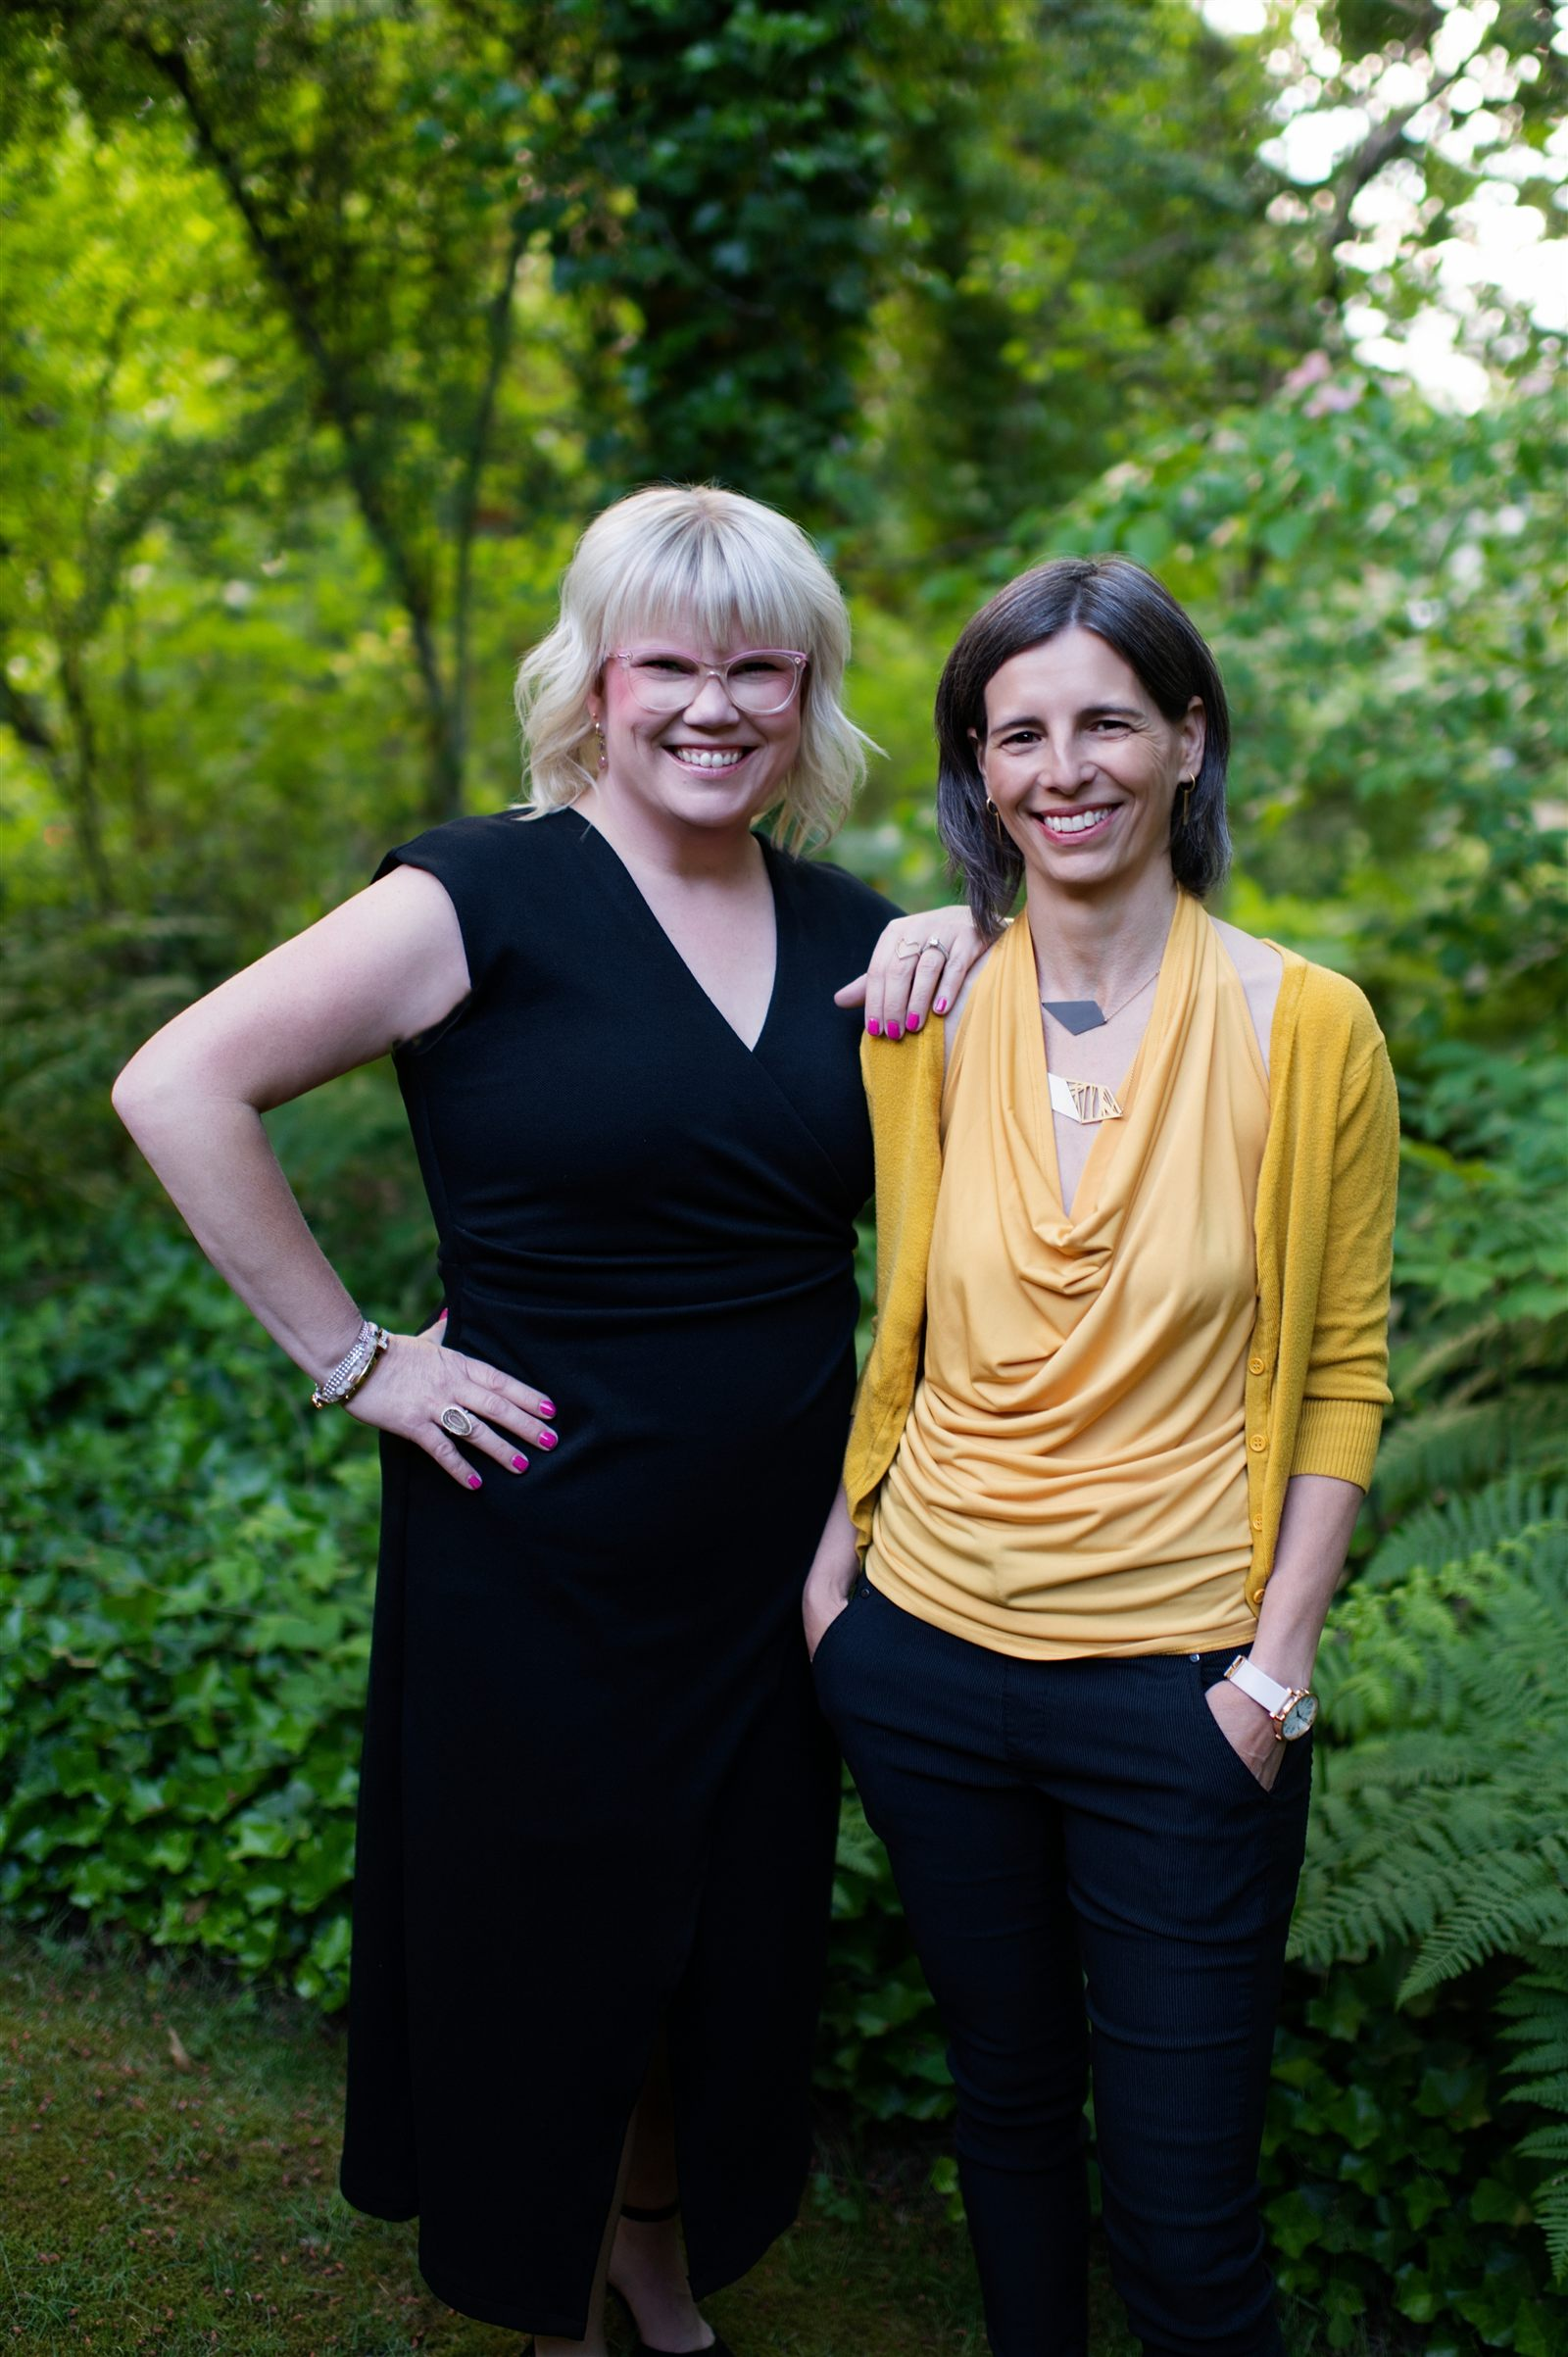
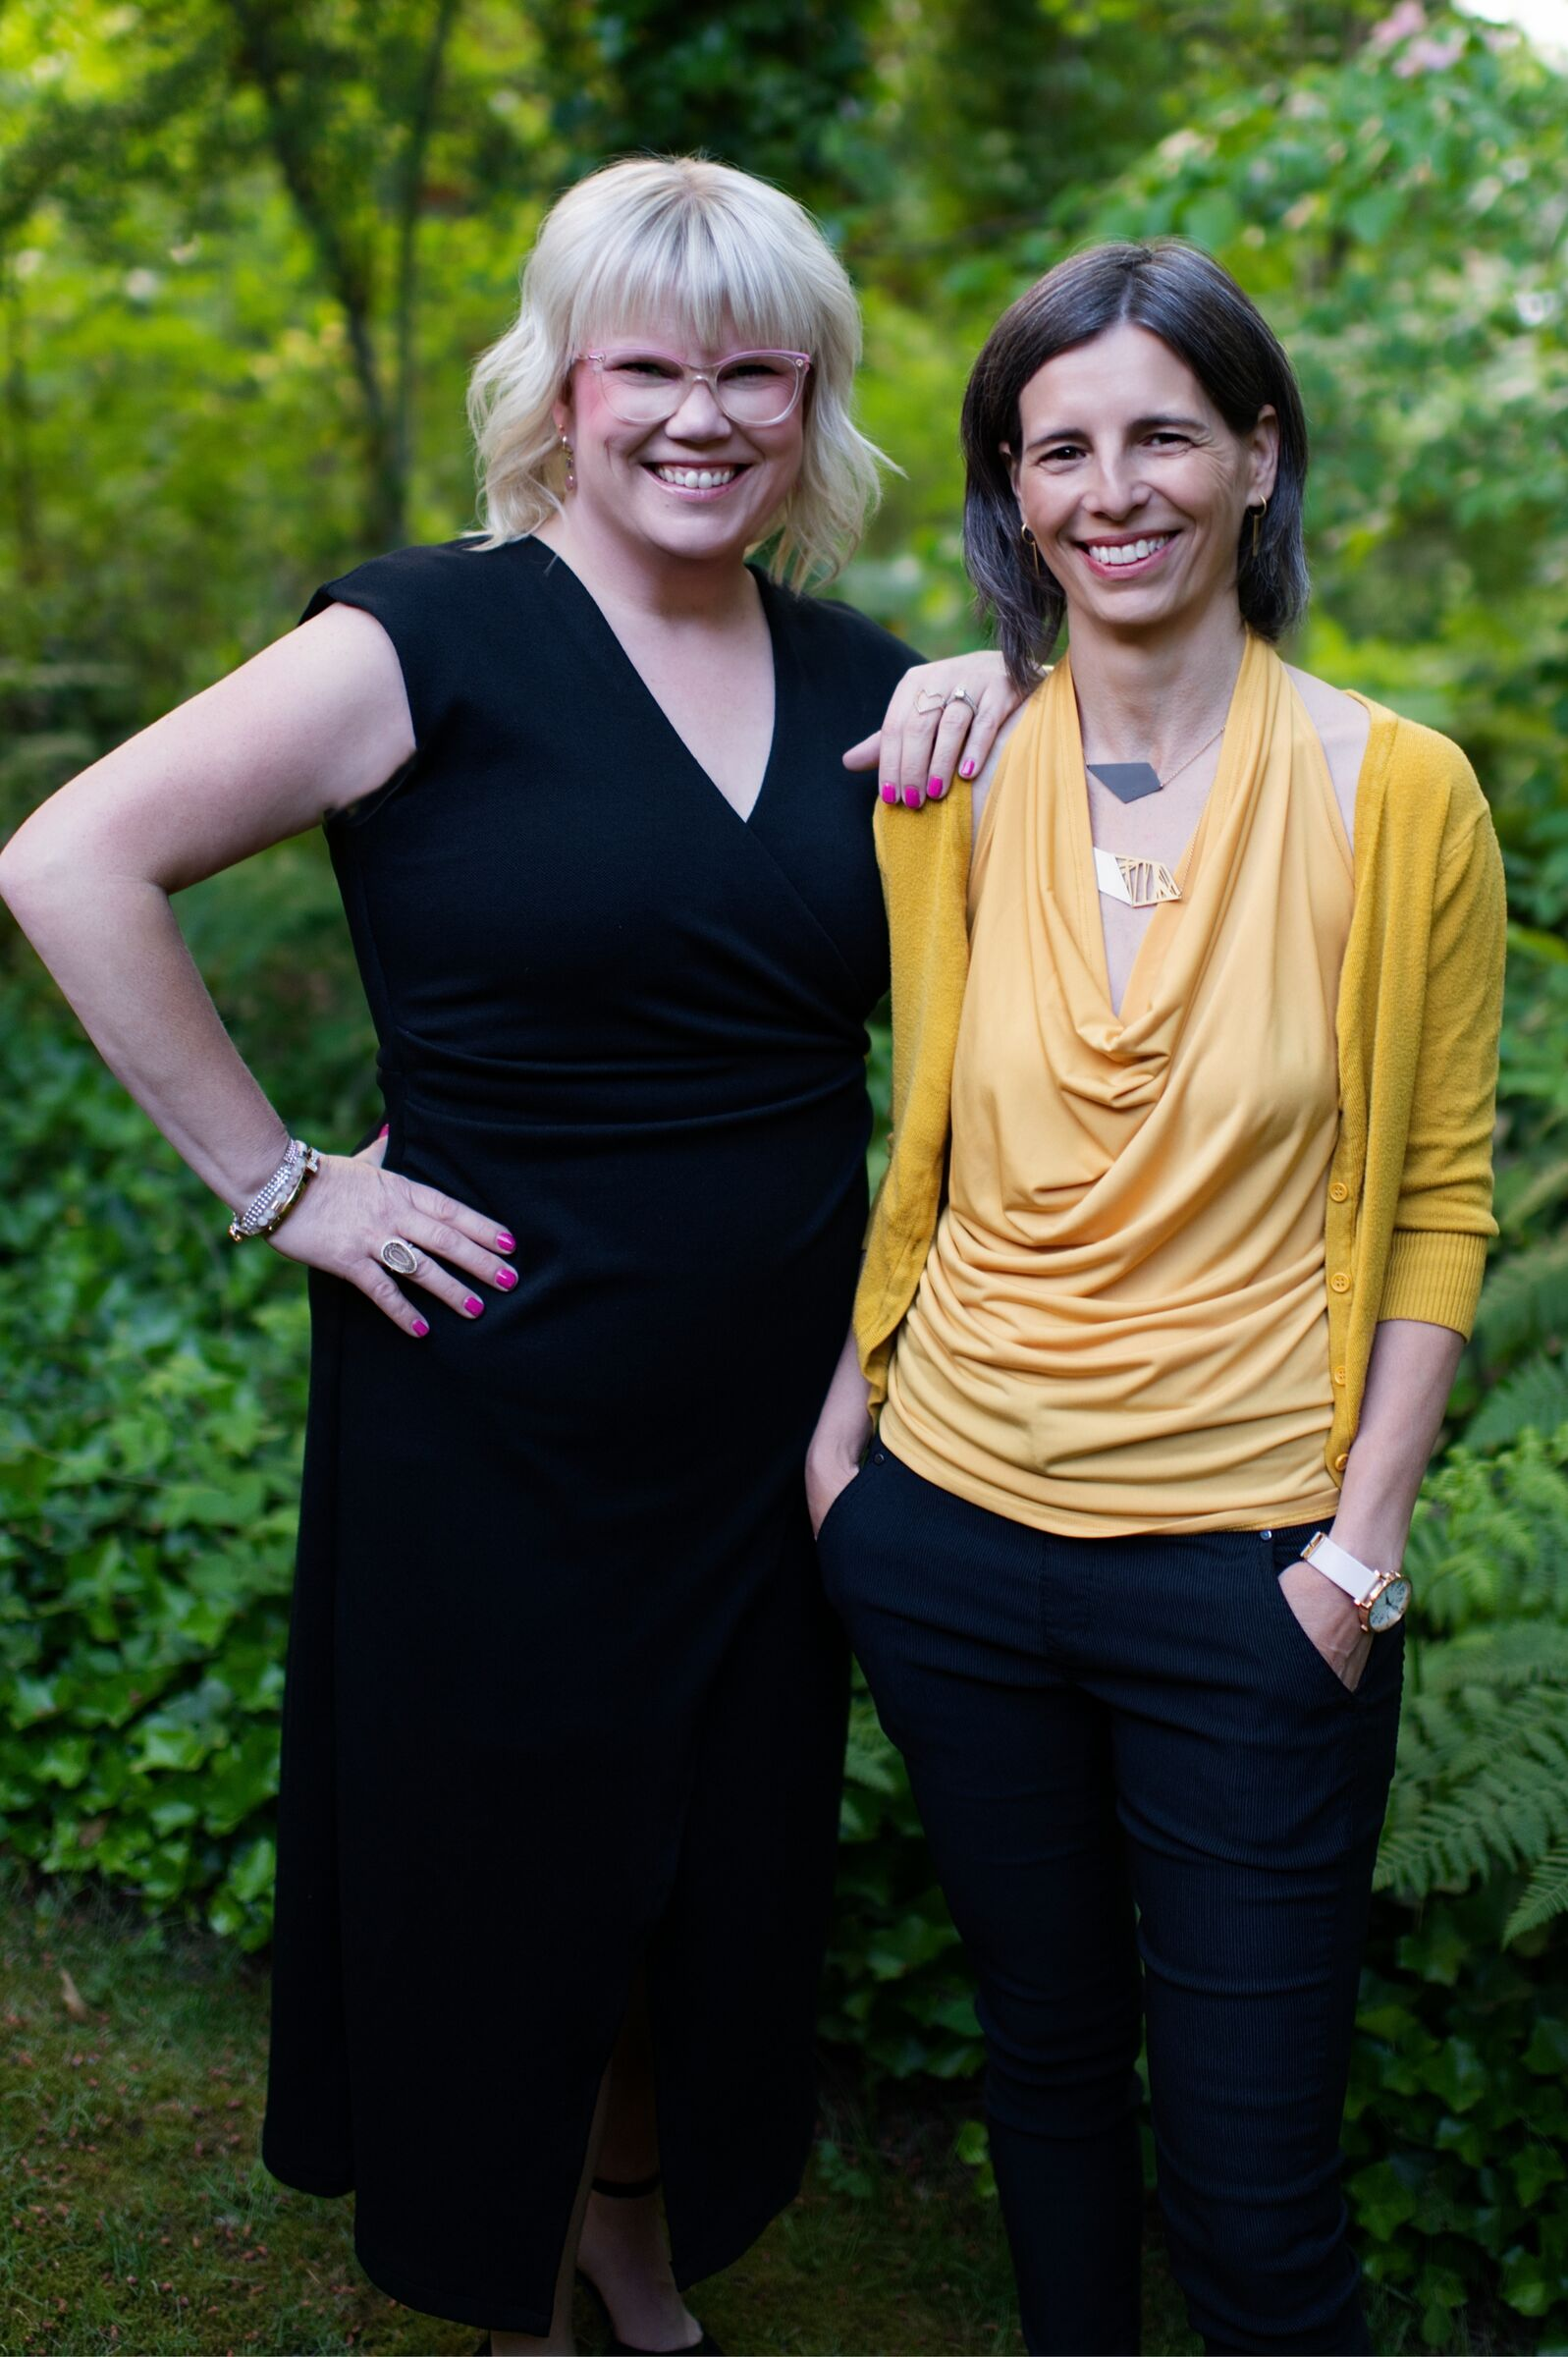
Redesign team section: larger founder photos with text wrapping, updated team image
- Increase founder headshot size from 72px to 220px
- Move images to float within first paragraph of each bio
- Subsequent paragraphs span full width below image
- Update Nina's first section text to split intro paragraphs for better layout
- Change pronouns: Miri's work, Nina is passionate (instead of Her/She)
- Replace team photo with new nina-miri-cropped image and optimize file size
- Update Nina's headshot with optimized version

diff --git a/src/styles/global.css b/src/styles/global.css
@@ -681,20 +681,46 @@ footer {
 }
 
 .bio-header {
-  display: flex;
-  justify-content: space-between;
-  align-items: flex-start;
-  gap: var(--space-4);
   margin-bottom: var(--space-4);
 }
 
-.bio-headshot {
-  width: 72px;
-  height: 72px;
+.bio-section:first-child {
+  display: grid;
+  grid-template-columns: 1fr 220px;
+  gap: var(--space-4);
+  align-items: flex-start;
+}
+
+.bio-section:first-child .bio-headshot {
+  width: 220px;
+  height: 220px;
   border-radius: var(--radius-lg);
-  object-fit: cover;
-  object-position: center top;
-  flex-shrink: 0;
+  object-fit: contain;
+  object-position: center;
+  grid-column: 2;
+  grid-row: 1;
+}
+
+.bio-section:first-child > p:first-of-type {
+  grid-column: 1;
+  grid-row: 1;
+  margin: 0;
+  min-height: 220px;
+  display: flex;
+  align-items: flex-start;
+}
+
+.bio-section:first-child > p:not(:first-of-type) {
+  grid-column: 1 / -1;
+  margin: var(--space-5) 0 0 0;
+}
+
+.bio-headshot {
+  width: 220px;
+  height: 220px;
+  border-radius: var(--radius-lg);
+  object-fit: contain;
+  object-position: center;
 }
 
 .bio-name {

diff --git a/src/content/site/team.md b/src/content/site/team.md
@@ -15,7 +15,7 @@ founders:
     sections:
       - paragraphs:
           - "Dr. Miri Arie is a psychologist, group facilitator, and relational skills expert specializing in helping adults understand their interpersonal patterns and build the skills needed for authentic, confident connection."
-          - "Her work centers on the belief that meaningful relationships are not just something we find—they are something we learn how to create through awareness, practice, and feedback. She is particularly interested in how people show up in early dating, friendship, and intimate relationships, and in helping individuals move from insight into real-world relational change."
+          - "Miri's work centers on the belief that meaningful relationships are not just something we find—they are something we learn how to create through awareness, practice, and feedback. She is particularly interested in how people show up in early dating, friendship, and intimate relationships, and in helping individuals move from insight into real-world relational change."
       - heading: "Professional Background."
         paragraphs:
           - "Dr. Arie's background in psychology and group work informs her approach to relational expertise. She is a Certified Group Psychotherapist (CGP) with extensive experience facilitating group processes, interpersonal learning environments, and attachment-informed work with individuals, families, and communities."
@@ -33,7 +33,8 @@ founders:
     image: "/images/nina-headshot.png"
     sections:
       - paragraphs:
-          - Nina is a master's-level relational expert with more than a decade of experience helping people build lives rooted in authenticity, connection, and belonging. She is passionate about helping individuals understand themselves more deeply so they can create healthier relationships, stronger communities, and a greater sense of fulfillment in their everyday lives."
+          - "Nina is a master's-level relational expert with more than a decade of experience helping people build lives rooted in authenticity, connection, and belonging."
+          - "Nina is passionate about helping individuals understand themselves more deeply so they can create healthier relationships, stronger communities, and a greater sense of fulfillment in their everyday lives."
       - heading: "Professional Background."
         paragraphs:
           - "Nina's professional foundation is in psychology, with specialized expertise in relational trauma, attachment, and neurodivergence. Throughout her career, she has worked with adults, couples, and families, helping them navigate life's challenges while strengthening their capacity for connection and emotional well-being."